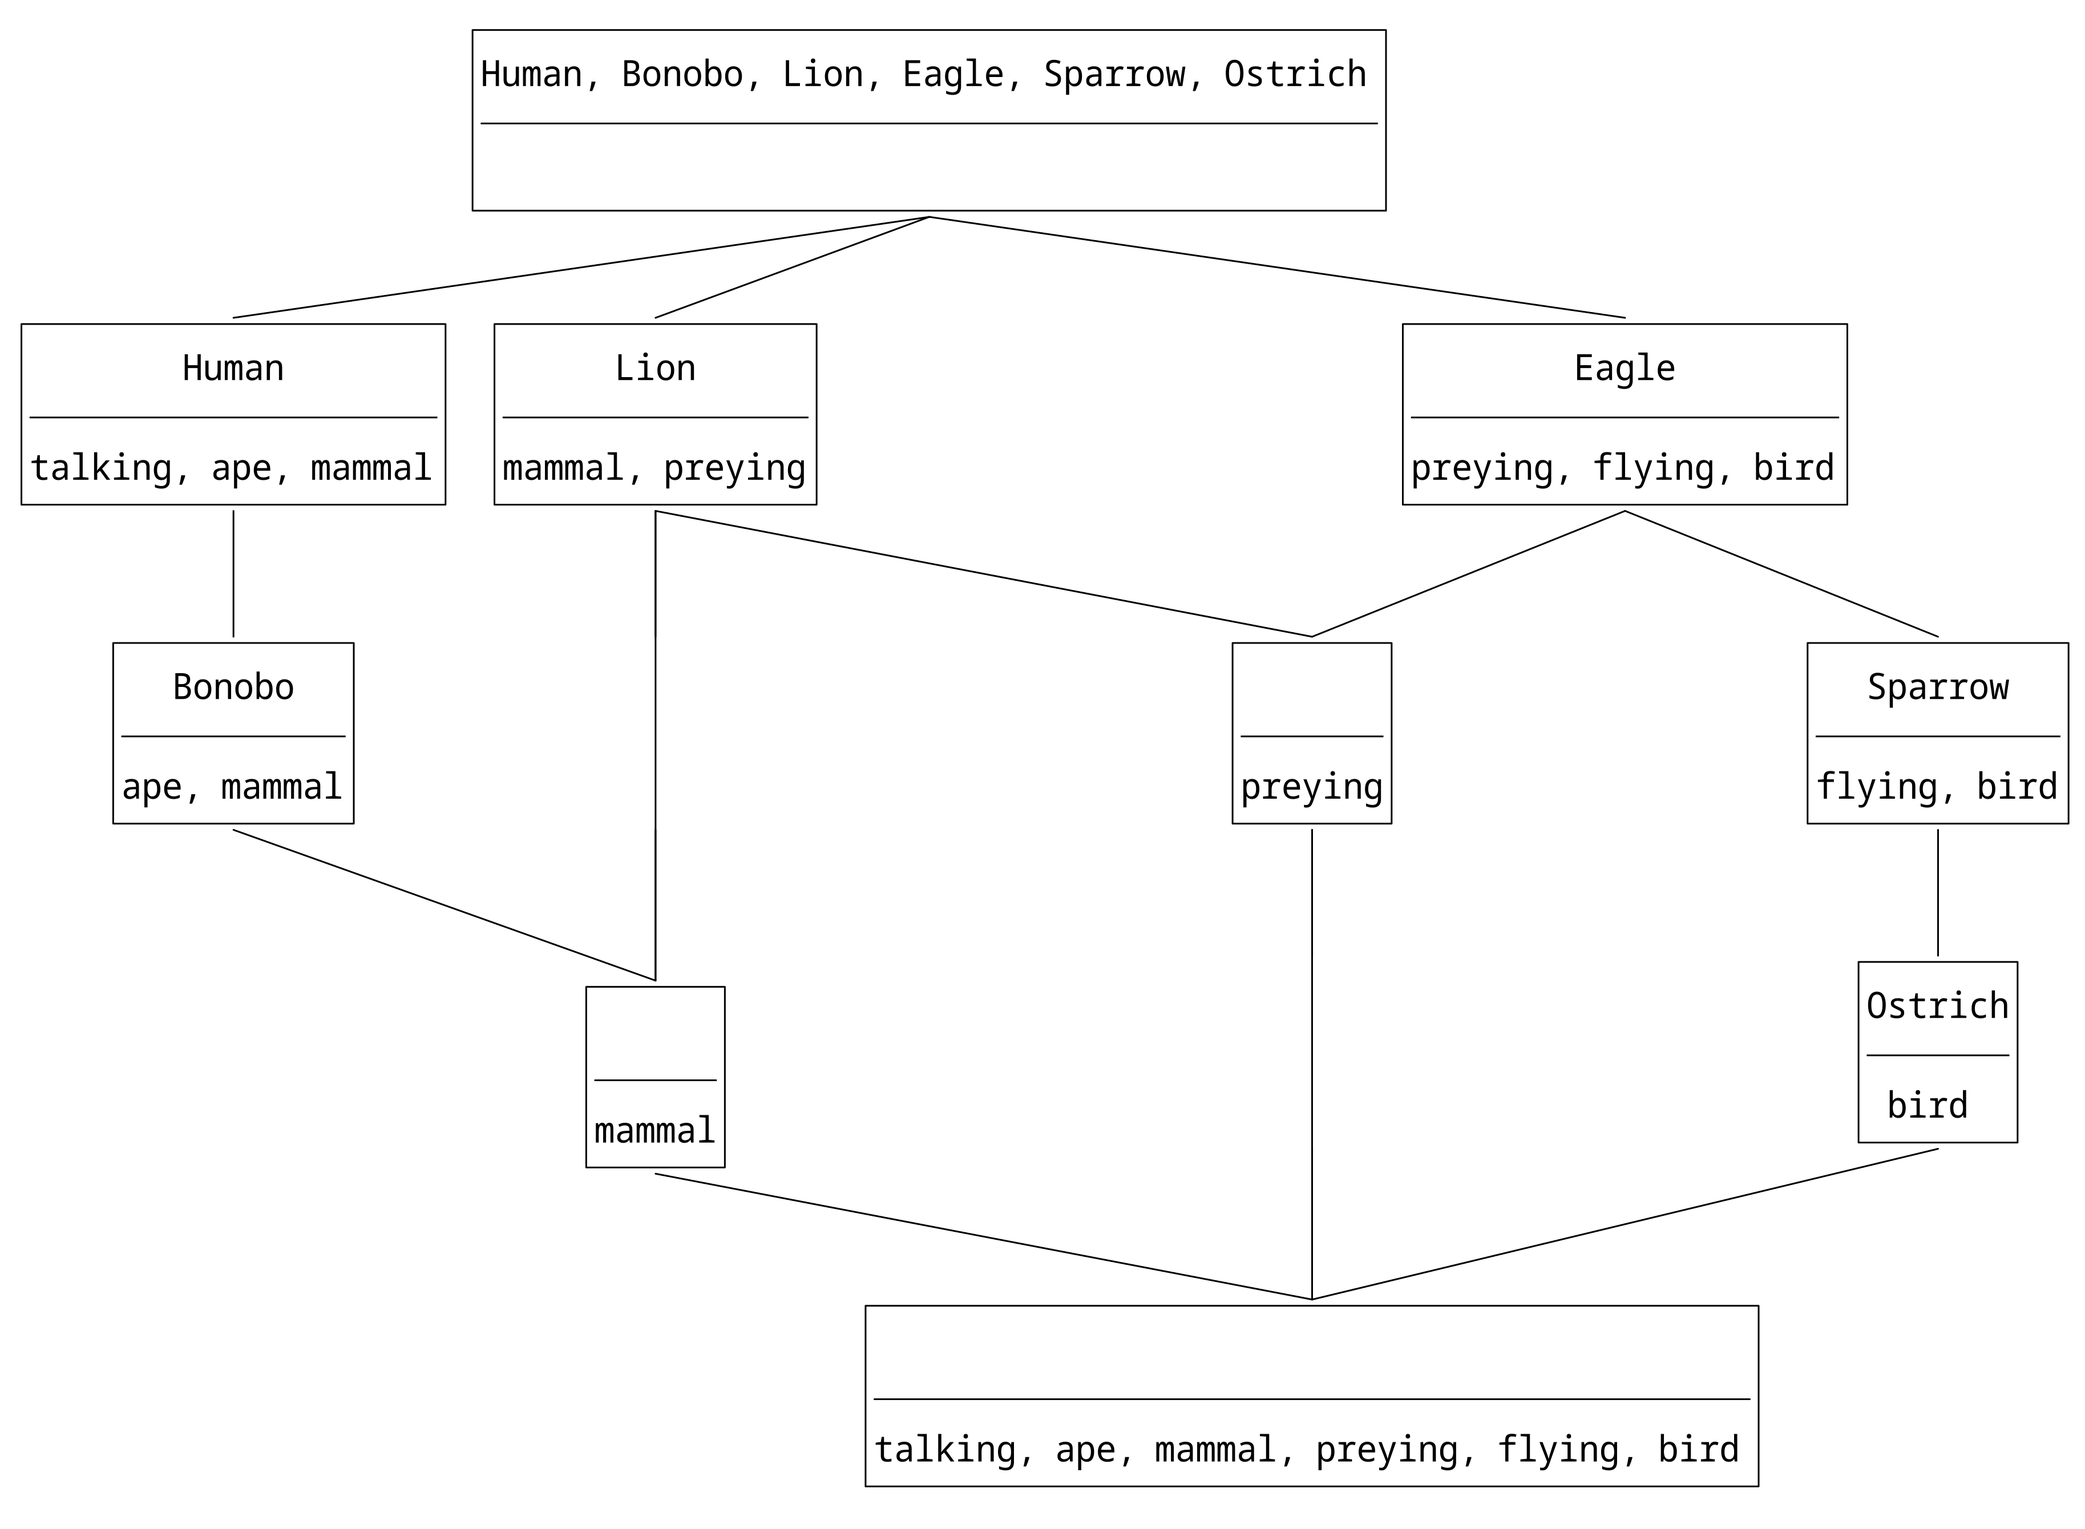
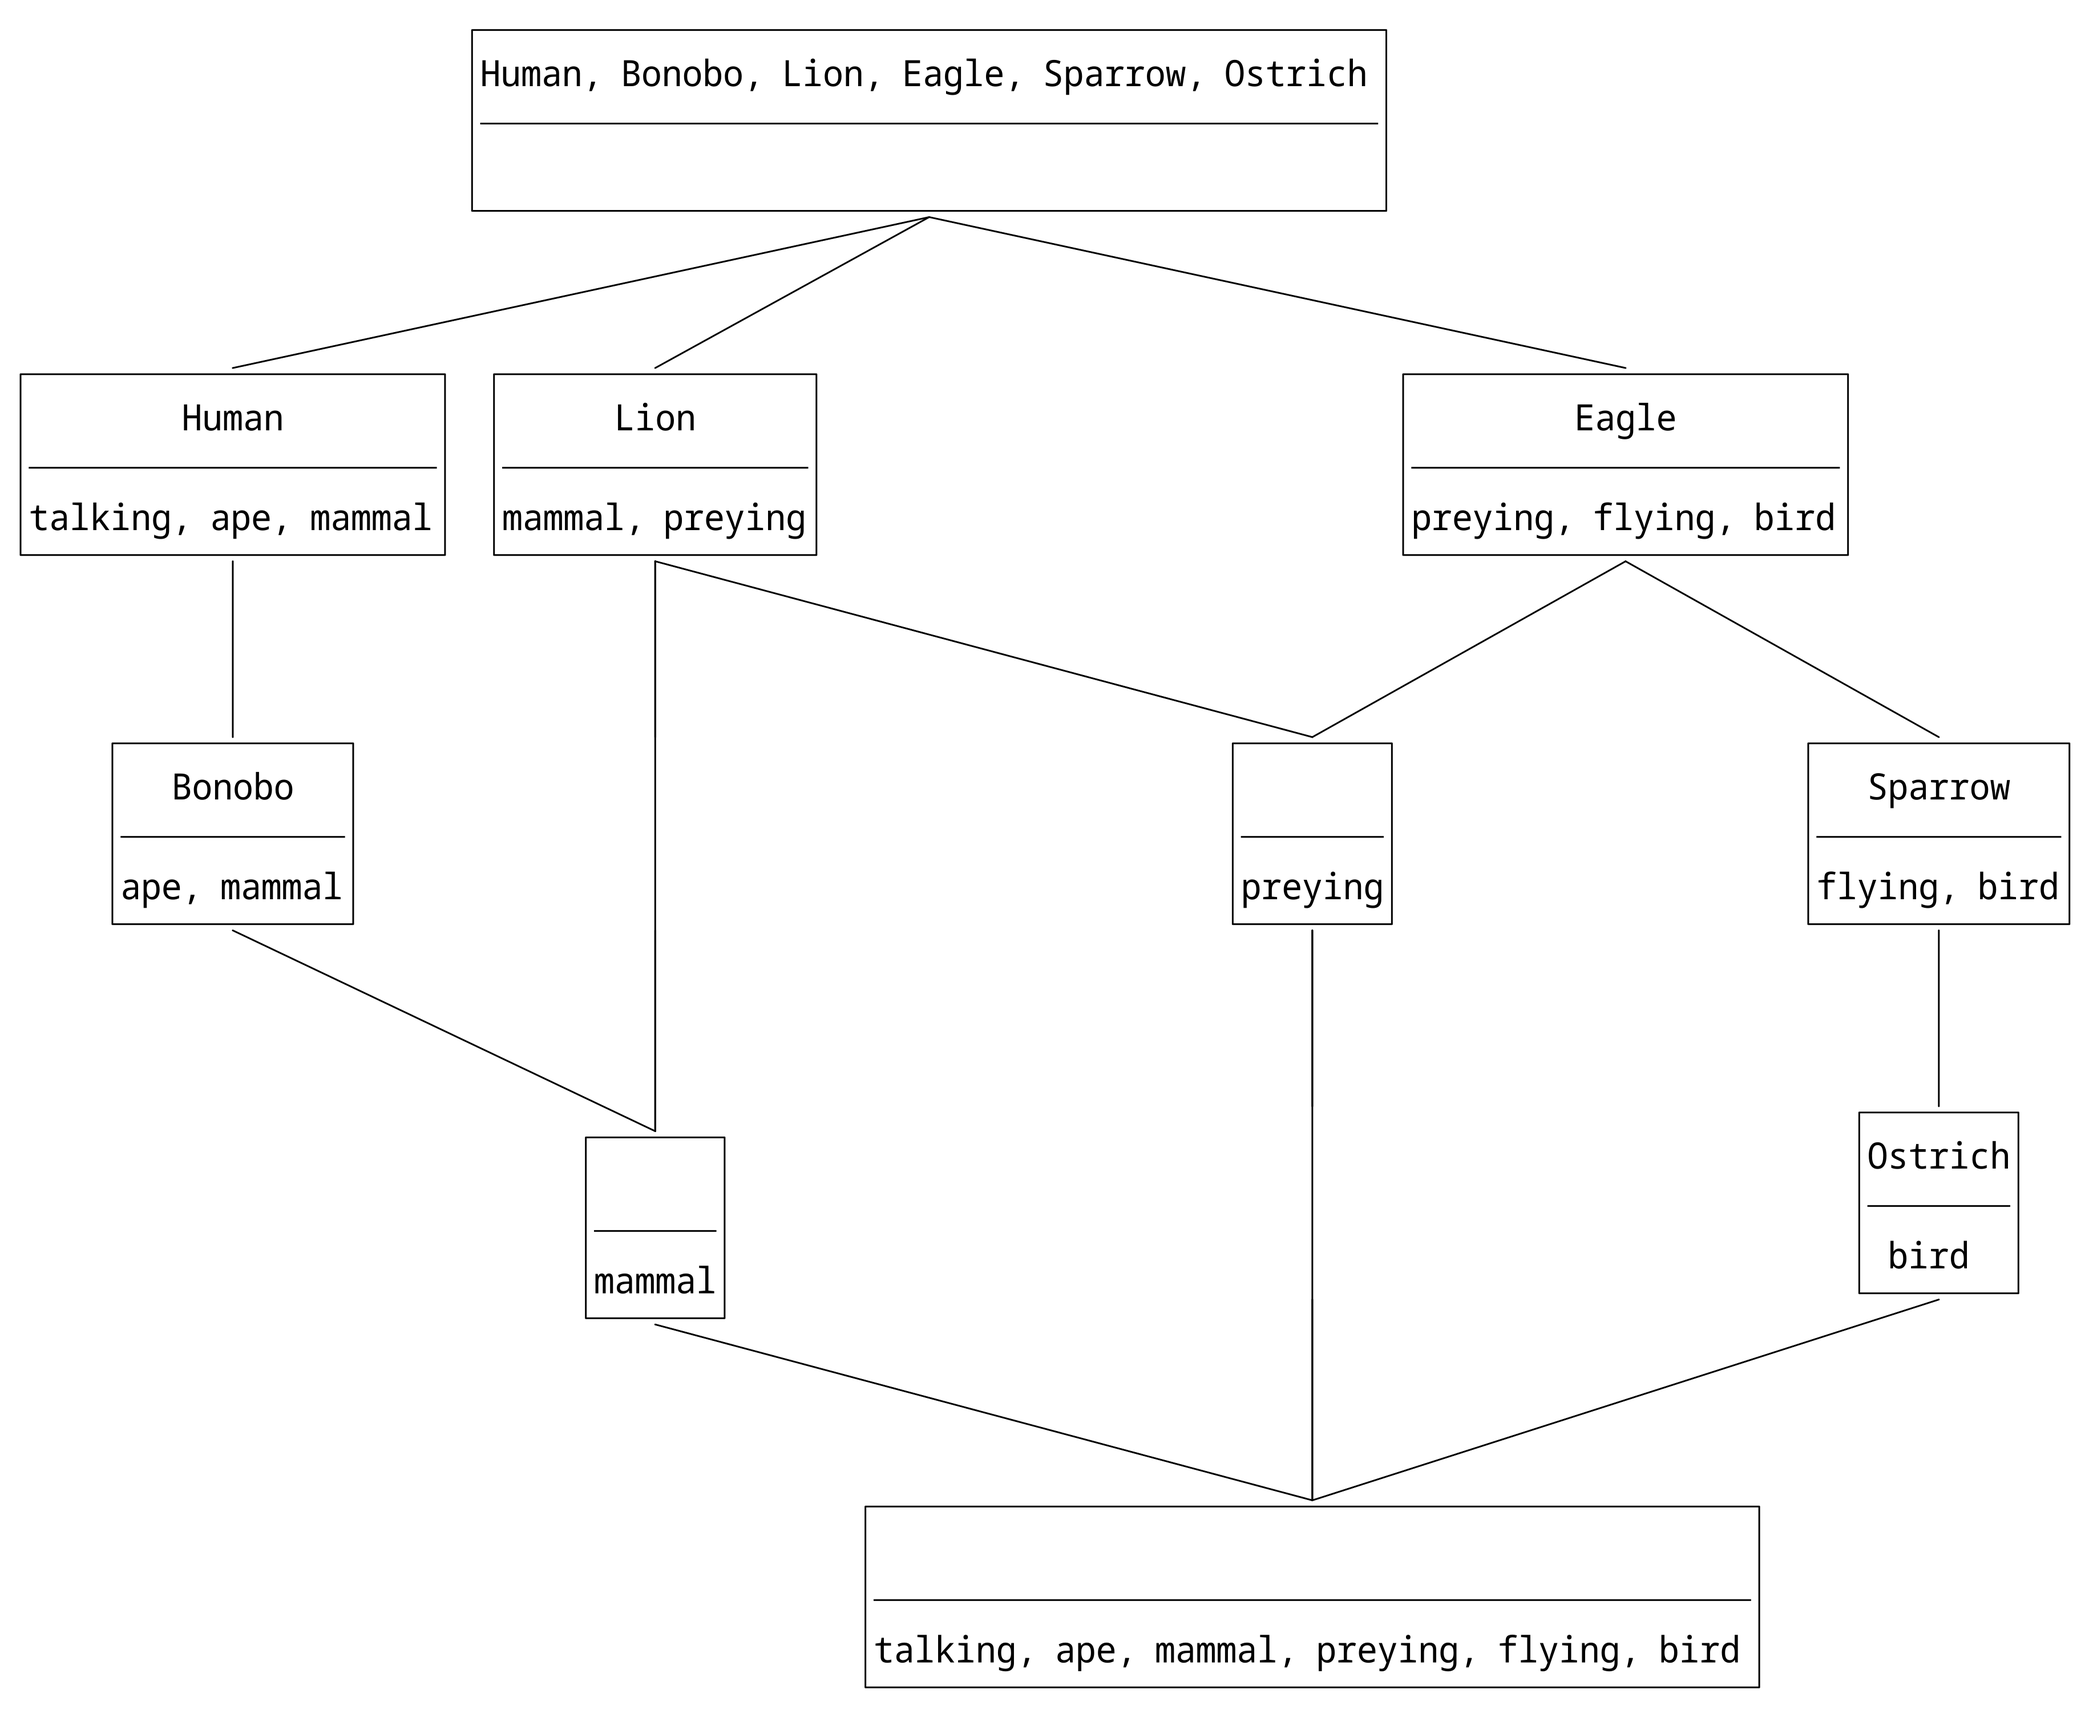
Connector height of examples changed

diff --git a/docs/_examples/029.md b/docs/_examples/029.md
@@ -6,7 +6,7 @@ category: "Formal Concept Analysis"
 polyline: "off"
 symmetrization: "off"
 connector: "auto"
-connector_height: "2"
+connector_height: "3"
 linewidth: "1"
 hide_default_connectors: "off"
 font: "Noto Sans Mono"
